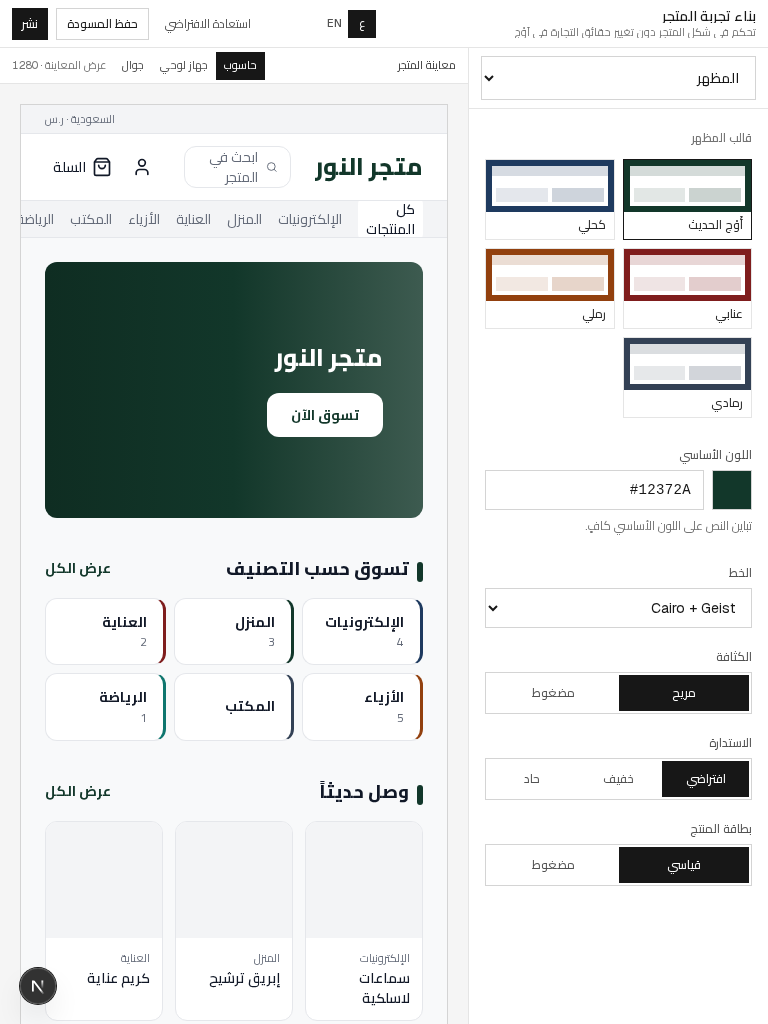
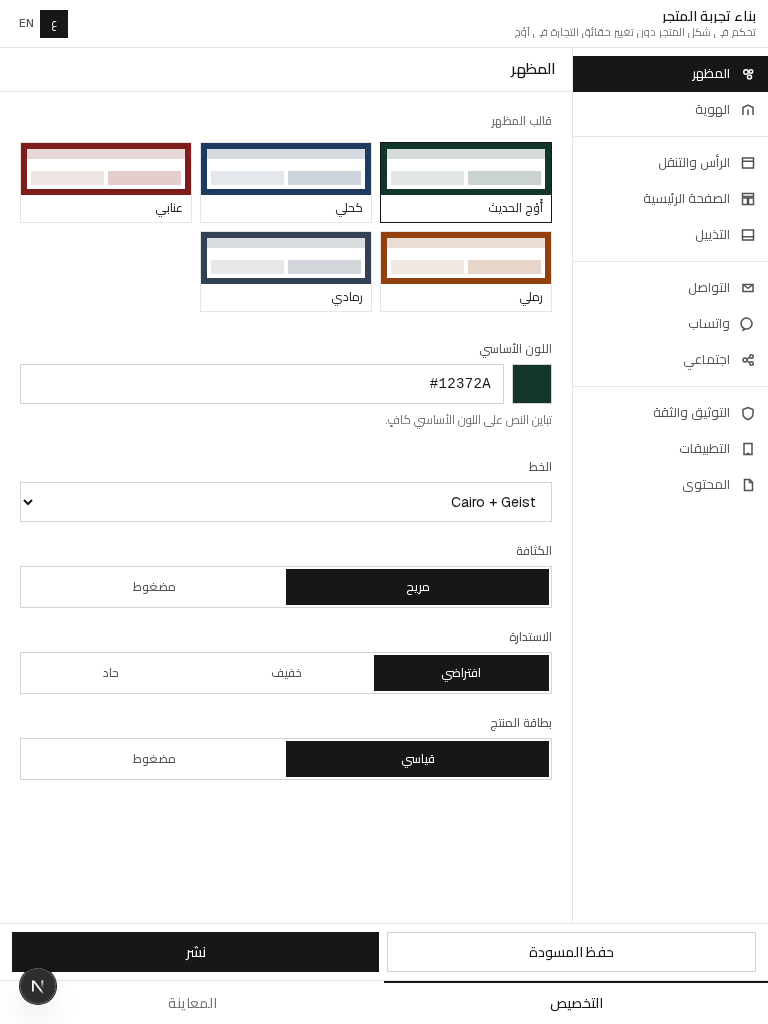
fix(store): use the 768 tablet width in the STORE-UI-6 customizer
Keep the approved 1440 two-pane and 390 Customize/Preview chrome.
At 768 the inspector now fills the remaining workspace beside the
editor outline, with Preview as a full-width tab.

diff --git a/storefront/src/components/customizer/ExperienceBuilder.tsx b/storefront/src/components/customizer/ExperienceBuilder.tsx
@@ -113,7 +113,7 @@ export function ExperienceBuilder({
       data-device={device}
       className="relative flex h-full min-h-0 flex-col bg-neutral-100 text-neutral-900"
     >
-      <header className="flex h-11 shrink-0 items-center gap-2 border-b border-neutral-200 bg-white px-3 md:h-12 md:gap-3 md:pe-80">
+      <header className="flex h-11 shrink-0 items-center gap-2 border-b border-neutral-200 bg-white px-3 md:h-12 md:gap-3 lg:pe-80">
         <div className="min-w-0 flex-1">
           <p className="truncate text-[13px] font-semibold leading-none md:text-sm">
             {t("title")}
@@ -164,7 +164,9 @@ export function ExperienceBuilder({
       <div className="flex min-h-0 flex-1">
         <nav
           aria-label={t("controls")}
-          className="hidden shrink-0 overflow-y-auto border-e border-neutral-200 bg-white lg:flex lg:w-[196px] lg:flex-col"
+          className={`${
+            mobilePane === "preview" ? "hidden lg:flex" : "hidden md:flex"
+          } w-[196px] shrink-0 flex-col overflow-y-auto border-e border-neutral-200 bg-white`}
         >
           <div className="flex flex-col py-2">
             {CUSTOMIZER_NAV_GROUPS.map((group, groupIndex) => (
@@ -206,9 +208,9 @@ export function ExperienceBuilder({
           data-builder-controls=""
           className={`${
             mobilePane === "edit" ? "flex" : "hidden"
-          } w-full shrink-0 flex-col border-neutral-200 bg-white md:flex md:w-[300px] md:border-e xl:w-[320px]`}
+          } w-full min-w-0 flex-col border-neutral-200 bg-white md:flex-1 lg:flex lg:w-[300px] lg:flex-none lg:border-e xl:w-[320px]`}
         >
-          <div className="shrink-0 border-b border-neutral-200 px-3 py-2 lg:hidden">
+          <div className="shrink-0 border-b border-neutral-200 px-3 py-2 md:hidden">
             <label className="sr-only" htmlFor="customizer-panel-select">
               {t("controls")}
             </label>
@@ -227,12 +229,12 @@ export function ExperienceBuilder({
               ))}
             </select>
           </div>
-          <div className="hidden shrink-0 border-b border-neutral-200 px-4 py-3 lg:block">
+          <div className="hidden shrink-0 border-b border-neutral-200 px-4 py-3 md:block">
             <h2 className="text-[15px] font-semibold leading-tight">
               {activePanel ? t(activePanel.label) : t("theme")}
             </h2>
           </div>
-          <div className="min-h-0 flex-1 overflow-y-auto px-4 py-4 md:px-4 md:py-5">
+          <div className="min-h-0 flex-1 overflow-y-auto px-4 py-4 md:px-5 md:py-5 lg:px-4 lg:py-5">
             <ControlPanels
               panel={panel}
               config={draft}
@@ -248,7 +250,7 @@ export function ExperienceBuilder({
           aria-label={t("livePreview")}
           className={`${
             mobilePane === "preview" ? "flex" : "hidden"
-          } min-w-0 flex-1 flex-col md:flex`}
+          } min-w-0 flex-1 flex-col lg:flex`}
         >
           <div className="flex h-9 shrink-0 items-center justify-between gap-3 border-b border-neutral-200 bg-white px-3 text-[11px] text-neutral-500">
             <span className="font-medium text-neutral-700">
@@ -296,13 +298,13 @@ export function ExperienceBuilder({
 
       <div
         className={`${
-          mobilePane === "preview" ? "hidden md:flex" : "flex"
-        } shrink-0 items-center gap-2 border-t border-neutral-200 bg-white px-3 py-2 md:absolute md:top-0 md:end-3 md:h-12 md:border-0 md:bg-transparent md:px-0 md:py-0`}
+          mobilePane === "preview" ? "hidden lg:flex" : "flex"
+        } shrink-0 items-center gap-2 border-t border-neutral-200 bg-white px-3 py-2 lg:absolute lg:top-0 lg:end-3 lg:h-12 lg:border-0 lg:bg-transparent lg:px-0 lg:py-0`}
       >
         <button
           type="button"
           onClick={handleRestore}
-          className="hidden h-8 px-2 text-xs text-neutral-600 hover:text-neutral-900 md:inline"
+          className="hidden h-8 px-2 text-xs text-neutral-600 hover:text-neutral-900 lg:inline"
         >
           {t("restore")}
         </button>
@@ -310,7 +312,7 @@ export function ExperienceBuilder({
           type="button"
           data-save=""
           onClick={handleSave}
-          className="h-10 flex-1 border border-neutral-300 bg-white px-3 text-sm font-medium md:h-8 md:flex-none md:px-2.5 md:text-xs"
+          className="h-10 flex-1 border border-neutral-300 bg-white px-3 text-sm font-medium lg:h-8 lg:flex-none lg:px-2.5 lg:text-xs"
         >
           {t("save")}
         </button>
@@ -318,13 +320,13 @@ export function ExperienceBuilder({
           type="button"
           data-publish=""
           onClick={handlePublish}
-          className="h-10 flex-1 bg-neutral-900 px-3 text-sm font-medium text-white md:h-8 md:flex-none md:px-2.5 md:text-xs"
+          className="h-10 flex-1 bg-neutral-900 px-3 text-sm font-medium text-white lg:h-8 lg:flex-none lg:px-2.5 lg:text-xs"
         >
           {t("publish")}
         </button>
       </div>
 
-      <div className="flex h-11 shrink-0 border-t border-neutral-200 bg-white md:hidden">
+      <div className="flex h-11 shrink-0 border-t border-neutral-200 bg-white lg:hidden">
         <button
           type="button"
           className={`relative flex-1 text-sm font-medium ${mobilePane === "edit" ? "text-neutral-900" : "text-neutral-500"}`}

diff --git a/web/src/modules/store-experience-builder/ExperienceBuilder.tsx b/web/src/modules/store-experience-builder/ExperienceBuilder.tsx
@@ -113,7 +113,7 @@ export function ExperienceBuilder({
       data-device={device}
       className="relative flex h-full min-h-0 flex-col bg-neutral-100 text-neutral-900"
     >
-      <header className="flex h-11 shrink-0 items-center gap-2 border-b border-neutral-200 bg-white px-3 md:h-12 md:gap-3 md:pe-80">
+      <header className="flex h-11 shrink-0 items-center gap-2 border-b border-neutral-200 bg-white px-3 md:h-12 md:gap-3 lg:pe-80">
         <div className="min-w-0 flex-1">
           <p className="truncate text-[13px] font-semibold leading-none md:text-sm">
             {t("title")}
@@ -164,7 +164,9 @@ export function ExperienceBuilder({
       <div className="flex min-h-0 flex-1">
         <nav
           aria-label={t("controls")}
-          className="hidden shrink-0 overflow-y-auto border-e border-neutral-200 bg-white lg:flex lg:w-[196px] lg:flex-col"
+          className={`${
+            mobilePane === "preview" ? "hidden lg:flex" : "hidden md:flex"
+          } w-[196px] shrink-0 flex-col overflow-y-auto border-e border-neutral-200 bg-white`}
         >
           <div className="flex flex-col py-2">
             {CUSTOMIZER_NAV_GROUPS.map((group, groupIndex) => (
@@ -206,9 +208,9 @@ export function ExperienceBuilder({
           data-builder-controls=""
           className={`${
             mobilePane === "edit" ? "flex" : "hidden"
-          } w-full shrink-0 flex-col border-neutral-200 bg-white md:flex md:w-[300px] md:border-e xl:w-[320px]`}
+          } w-full min-w-0 flex-col border-neutral-200 bg-white md:flex-1 lg:flex lg:w-[300px] lg:flex-none lg:border-e xl:w-[320px]`}
         >
-          <div className="shrink-0 border-b border-neutral-200 px-3 py-2 lg:hidden">
+          <div className="shrink-0 border-b border-neutral-200 px-3 py-2 md:hidden">
             <label className="sr-only" htmlFor="customizer-panel-select">
               {t("controls")}
             </label>
@@ -227,12 +229,12 @@ export function ExperienceBuilder({
               ))}
             </select>
           </div>
-          <div className="hidden shrink-0 border-b border-neutral-200 px-4 py-3 lg:block">
+          <div className="hidden shrink-0 border-b border-neutral-200 px-4 py-3 md:block">
             <h2 className="text-[15px] font-semibold leading-tight">
               {activePanel ? t(activePanel.label) : t("theme")}
             </h2>
           </div>
-          <div className="min-h-0 flex-1 overflow-y-auto px-4 py-4 md:px-4 md:py-5">
+          <div className="min-h-0 flex-1 overflow-y-auto px-4 py-4 md:px-5 md:py-5 lg:px-4 lg:py-5">
             <ControlPanels
               panel={panel}
               config={draft}
@@ -248,7 +250,7 @@ export function ExperienceBuilder({
           aria-label={t("livePreview")}
           className={`${
             mobilePane === "preview" ? "flex" : "hidden"
-          } min-w-0 flex-1 flex-col md:flex`}
+          } min-w-0 flex-1 flex-col lg:flex`}
         >
           <div className="flex h-9 shrink-0 items-center justify-between gap-3 border-b border-neutral-200 bg-white px-3 text-[11px] text-neutral-500">
             <span className="font-medium text-neutral-700">
@@ -296,13 +298,13 @@ export function ExperienceBuilder({
 
       <div
         className={`${
-          mobilePane === "preview" ? "hidden md:flex" : "flex"
-        } shrink-0 items-center gap-2 border-t border-neutral-200 bg-white px-3 py-2 md:absolute md:top-0 md:end-3 md:h-12 md:border-0 md:bg-transparent md:px-0 md:py-0`}
+          mobilePane === "preview" ? "hidden lg:flex" : "flex"
+        } shrink-0 items-center gap-2 border-t border-neutral-200 bg-white px-3 py-2 lg:absolute lg:top-0 lg:end-3 lg:h-12 lg:border-0 lg:bg-transparent lg:px-0 lg:py-0`}
       >
         <button
           type="button"
           onClick={handleRestore}
-          className="hidden h-8 px-2 text-xs text-neutral-600 hover:text-neutral-900 md:inline"
+          className="hidden h-8 px-2 text-xs text-neutral-600 hover:text-neutral-900 lg:inline"
         >
           {t("restore")}
         </button>
@@ -310,7 +312,7 @@ export function ExperienceBuilder({
           type="button"
           data-save=""
           onClick={handleSave}
-          className="h-10 flex-1 border border-neutral-300 bg-white px-3 text-sm font-medium md:h-8 md:flex-none md:px-2.5 md:text-xs"
+          className="h-10 flex-1 border border-neutral-300 bg-white px-3 text-sm font-medium lg:h-8 lg:flex-none lg:px-2.5 lg:text-xs"
         >
           {t("save")}
         </button>
@@ -318,13 +320,13 @@ export function ExperienceBuilder({
           type="button"
           data-publish=""
           onClick={handlePublish}
-          className="h-10 flex-1 bg-neutral-900 px-3 text-sm font-medium text-white md:h-8 md:flex-none md:px-2.5 md:text-xs"
+          className="h-10 flex-1 bg-neutral-900 px-3 text-sm font-medium text-white lg:h-8 lg:flex-none lg:px-2.5 lg:text-xs"
         >
           {t("publish")}
         </button>
       </div>
 
-      <div className="flex h-11 shrink-0 border-t border-neutral-200 bg-white md:hidden">
+      <div className="flex h-11 shrink-0 border-t border-neutral-200 bg-white lg:hidden">
         <button
           type="button"
           className={`relative flex-1 text-sm font-medium ${mobilePane === "edit" ? "text-neutral-900" : "text-neutral-500"}`}

diff --git a/storefront/src/components/customizer/ControlPanels.tsx b/storefront/src/components/customizer/ControlPanels.tsx
@@ -262,7 +262,7 @@ function ThemePanel({
   return (
     <div className="space-y-7">
       <Section title={t("preset")}>
-        <div className="grid grid-cols-2 gap-2">
+        <div className="grid grid-cols-2 gap-2 md:grid-cols-3 lg:grid-cols-2">
           {THEME_PRESETS.map((preset) => {
             const selected = config.themePreset === preset.id;
             return (

diff --git a/web/src/modules/store-experience-builder/ControlPanels.tsx b/web/src/modules/store-experience-builder/ControlPanels.tsx
@@ -262,7 +262,7 @@ function ThemePanel({
   return (
     <div className="space-y-7">
       <Section title={t("preset")}>
-        <div className="grid grid-cols-2 gap-2">
+        <div className="grid grid-cols-2 gap-2 md:grid-cols-3 lg:grid-cols-2">
           {THEME_PRESETS.map((preset) => {
             const selected = config.themePreset === preset.id;
             return (

diff --git a/docs/plans/store/STORE-UI-6-IMPLEMENTATION-REPORT.md b/docs/plans/store/STORE-UI-6-IMPLEMENTATION-REPORT.md
@@ -2,9 +2,10 @@
 
 ## 1. Status
 
-**Visual refinement round pending review.** Architecture and
-capabilities were accepted. **Visual approval is not granted.**
-**Not merged, not deployed.** `NO VISUAL APPROVAL = NO MERGE`.
+**Desktop 1440 and Mobile 390 visual direction approved.**
+A tablet-only responsive correction is on this branch for **final
+visual approval**. **Not merged, not deployed.**
+`NO VISUAL APPROVAL = NO MERGE`.
 
 ## 2. Git
 
@@ -129,9 +130,9 @@ Verified at 390 / 430 / 768 / 1024 / 1280 / 1440.
 
 | Width | Layout |
 |---|---|
-| 390 / 430 | Customize / Preview tabs. Header is title + locale only. Panel picker is a native select. Save / Publish sit above the tabs, not in the title row. |
-| 768 | Two-pane. Panel picker remains a select so names stay readable. Device switch appears. Preview takes the remainder. |
-| 1024 / 1280 / 1440 | Editor outline + inspector + preview. Preview is the hero (924px of 1440). |
+| 390 / 430 | Customize / Preview tabs. Header is title + locale only. Panel picker is a native select. Save / Publish sit above the tabs, not in the title row. Unchanged this pass. |
+| 768 | Tablet workspace, not a 300px phone column. Editor outline (196px) + inspector filling the rest (572px). Customize / Preview tabs; simultaneous preview is withheld so the editor can use the width. Theme presets are 3 columns. Save / Publish are a full-width action bar. Preview tab is full 768px. |
+| 1024 / 1280 / 1440 | Editor outline + inspector + live preview. 1440 is unchanged: 196 / 320 / **924**. |
 
 ## 8. RTL / LTR
 
@@ -235,7 +236,10 @@ chrome pass:
 | 1440 | AR | WhatsApp | `desktop-1440-ar-whatsapp.png` |
 | 1440 | AR | Verification | `desktop-1440-ar-verification.png` |
 | 1440 | EN | Appearance | `desktop-1440-en-theme.png` |
-| 768 | AR | Appearance | `tablet-768-ar-theme.png` |
+| 768 | AR | Customize | `tablet-768-ar-theme.png` |
+| 768 | AR | Preview | `tablet-768-ar-preview.png` |
+| 768 | EN | Customize | `tablet-768-en-theme.png` |
+| 1024 | AR | Customize + Preview | `tablet-1024-ar-theme.png` |
 | 390 | AR | Customize | `mobile-390-ar-edit.png` |
 | 390 | AR | Preview | `mobile-390-ar-preview.png` |
 | 390 | EN | Customize | `mobile-390-en-edit.png` |
@@ -255,21 +259,21 @@ Observed while capturing:
   dedicated action row above Customize / Preview.
 - Storefront preview itself was not redesigned.
 
-## 17. Visual refinement (this round)
+## 17. Visual refinement (chrome round)
 
 Chrome only. Capabilities, honesty, tenant isolation, and the
 storefront preview canvas are unchanged. No backend, API, schema,
 persistence, or browser storage was introduced.
 
-What changed:
+What changed in the chrome round (desktop / mobile, approved):
 
 - **Preview dominance.** Inspector stays ~300–320px readable; the
   outline is 196px from `lg` up; preview fills the rest.
 - **Editor outline, not a settings list.** Named surfaces in
   store-building order, icons + labels, selected row is inverted
   fill, groups separated by hairlines rather than category captions.
-- **Theme presets** are 2-column visual plates (header + product
-  tiles) with a hard selected border.
+- **Theme presets** are visual plates (header + product tiles) with
+  a hard selected border.
 - **Homepage composer** communicates show / hide / reorder as a
   layer list.
 - **Contact, WhatsApp, Verification, Apps** have section headings
@@ -277,6 +281,28 @@ What changed:
 - **Mobile action hierarchy.** Title row, panel select, controls,
   Save / Publish, then Customize / Preview. Desktop actions are not
   squeezed into the 390px title.
+
+## 17b. Tablet-only responsive correction (this pass)
+
+Desktop 1440 architecture is unchanged (196 / 320 / 924).
+Mobile 390 Customize / Preview architecture is unchanged.
+
+768 previously forced `md:w-[300px]` inspector + simultaneous
+preview, which read as a phone column beside leftover canvas
+whitespace. That breakpoint now:
+
+- Shows the editor outline (196px) beside an inspector that
+  **fills the remaining 572px**.
+- Keeps Customize / Preview as tabs so the editor can use the
+  tablet width; simultaneous preview starts at `lg` (1024).
+- Preview tab is **full 768px** (nav and inspector hide).
+- Theme preset grid becomes 3 columns at `md`, 2 columns again
+  in the desktop inspector (`lg`).
+- Save / Publish are a full-width action bar at 768; they return
+  to the header at 1024+.
+
+1024 is the compact desktop two-pane (nav 196 + inspector 300 +
+preview 528). Measured live.
 
 ## 18. Explicit non-goals (held)
 
@@ -294,5 +320,6 @@ What changed:
 
 ## 19. Stop
 
-This branch is open for **visual review only**.
+This branch is open for **final visual approval** of the tablet
+correction. Desktop and mobile direction is already approved.
 `NO VISUAL APPROVAL = NO MERGE`.
